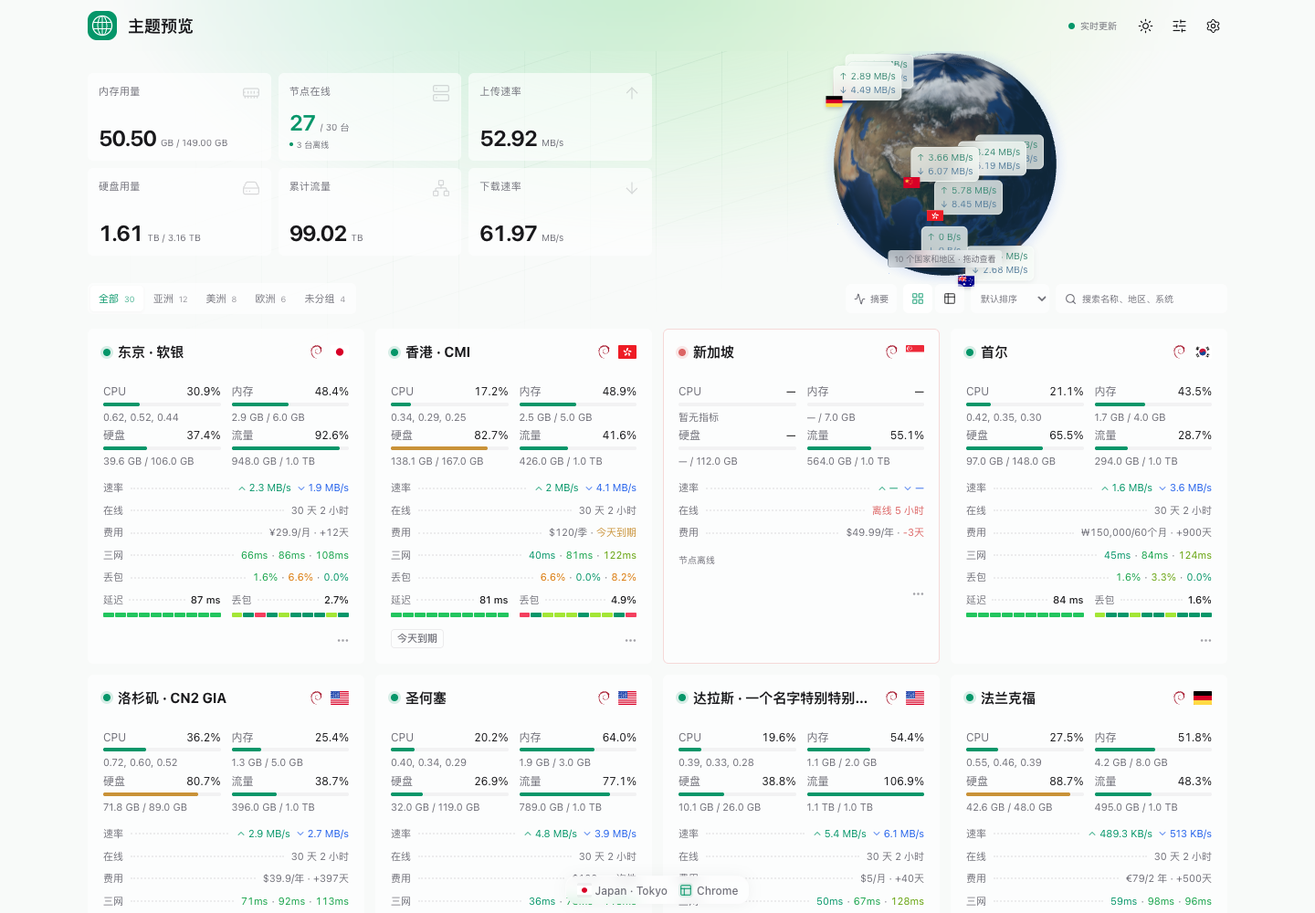
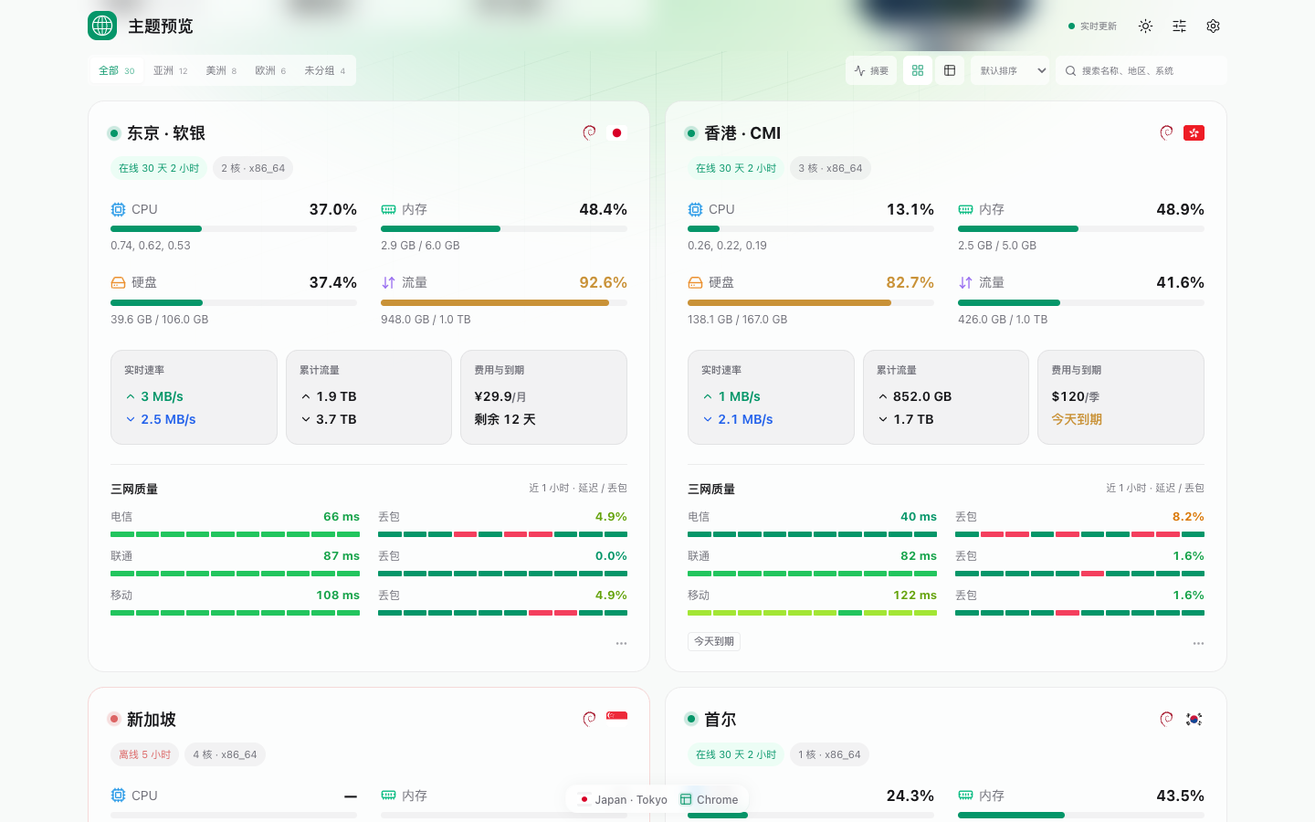
feat: prototype expanded node cards

diff --git a/src/styles.css b/src/styles.css
@@ -149,25 +149,48 @@ svg { flex-shrink: 0; }
 .search-field input::-webkit-search-cancel-button { display: none; }
 .search-clear { position: absolute; display: grid; place-items: center; top: 4px; right: 4px; width: 24px; height: 24px; color: var(--muted); background: transparent; }
 .search-clear svg { width: 12px; height: 12px; }
-.nodes-grid { display: grid; grid-template-columns: repeat(auto-fill, minmax(min(100%, var(--card-min, 292px)), 1fr)); gap: 12px; position: relative; }
-.node-card { min-width: 0; background: var(--surface); border: 1px solid transparent; border-radius: 6px; align-self: stretch; transition: background .2s, box-shadow .2s, transform .2s; }
+.nodes-grid { display: grid; grid-template-columns: repeat(2, minmax(0, 1fr)); gap: 16px; position: relative; }
+.nodes-grid.card-size-mini { grid-template-columns: repeat(auto-fill, minmax(min(100%, 370px), 1fr)); }
+.node-card { min-width: 0; background: var(--surface); border: 1px solid var(--line); border-radius: 18px; align-self: stretch; transition: background .2s, box-shadow .2s, transform .2s; }
 .node-card:hover { background: var(--surface-solid); box-shadow: var(--shadow); transform: translateY(-2px); }
 .node-card.node-offline { border-color: color-mix(in srgb, var(--danger) 24%, transparent); }
 .node-card.node-waiting { border-color: color-mix(in srgb, var(--warning) 18%, transparent); }
-.node-card-header { display: flex; align-items: center; gap: 8px; min-width: 0; padding: var(--card-padding-top, 14px) var(--card-padding, 16px) 26px; }
-.node-card-header h2 { margin: 0; font-size: var(--card-title-size, 15px); font-weight: 700; overflow: hidden; text-overflow: ellipsis; white-space: nowrap; flex: 1; min-width: 0; }
-.os-icon { width: 15px; height: 15px; flex-shrink: 0; }
-.country-flag { background: var(--subtle); width: 20px; height: 15px; border-radius: 1px; object-fit: cover; flex-shrink: 0; }
-.node-card-body { padding: 0 var(--card-padding, 16px) var(--card-padding-bottom, 16px); }
-.node-resources { display: grid; grid-template-columns: repeat(2, minmax(0, 1fr)); gap: var(--card-resource-gap, 6px) 12px; margin-bottom: 14px; }
+.node-card-header { display: flex; align-items: center; gap: 10px; min-width: 0; padding: var(--card-padding-top, 22px) var(--card-padding, 24px) 0; }
+.node-card-header h2 { margin: 0; font-size: var(--card-title-size, 18px); font-weight: 700; overflow: hidden; text-overflow: ellipsis; white-space: nowrap; flex: 1; min-width: 0; }
+.os-icon { width: 17px; height: 17px; flex-shrink: 0; }
+.country-flag { background: var(--subtle); width: 23px; height: 17px; border-radius: 3px; object-fit: cover; flex-shrink: 0; }
+.node-card-meta { display: flex; align-items: center; flex-wrap: wrap; gap: 6px; padding: 13px var(--card-padding, 24px) 0; min-height: 39px; }
+.node-meta-pill { display: block; max-width: 100%; padding: 5px 9px; border-radius: 99px; background: var(--subtle); color: var(--muted); font-size: var(--card-detail-size, 11px); overflow: hidden; text-overflow: ellipsis; white-space: nowrap; }
+.node-meta-pill:first-child:not(.danger, .warning) { color: var(--emerald); background: var(--emerald-soft); }
+.node-card-body { padding: 23px var(--card-padding, 24px) var(--card-padding-bottom, 22px); }
+.node-resources { display: grid; grid-template-columns: repeat(2, minmax(0, 1fr)); gap: var(--card-resource-gap, 22px) 26px; margin-bottom: 25px; }
 .resource-meter { min-width: 0; }
-.meter-label { display: flex; justify-content: space-between; align-items: center; font-size: var(--card-metric-size, 12px); gap: 6px; margin-bottom: 5px; line-height: 1.15; }
+.meter-label { display: flex; justify-content: space-between; align-items: center; font-size: var(--card-metric-size, 14px); gap: 6px; margin-bottom: 9px; line-height: 1.15; }
 .meter-label > span:first-child { color: var(--muted); }
+.meter-name { display: inline-flex; align-items: center; min-width: 0; gap: 6px; white-space: nowrap; }
+.meter-icon { width: 17px; height: 17px; stroke-width: 2; }
+.meter-icon-cpu { color: #2799e7; }
+.meter-icon-memory { color: #0fbd85; }
+.meter-icon-disk { color: #eb902f; }
+.meter-icon-traffic { color: #976cf0; }
+.meter-label .data-number { color: var(--foreground); font-size: var(--card-value-size, 16px); font-weight: 700; white-space: nowrap; }
 .data-number { font-variant-numeric: tabular-nums; }
-.meter-track { height: 4px; border-radius: 5px; background: var(--subtle); overflow: hidden; }
+.meter-track { height: 7px; border-radius: 8px; background: var(--subtle); overflow: hidden; }
 .meter-track > span { height: 100%; display: block; border-radius: inherit; transition: width .7s ease; }
-.meter-detail { font-size: var(--card-detail-size, 11px); color: var(--muted); margin-top: 4px; overflow: hidden; text-overflow: ellipsis; white-space: nowrap; line-height: 1.4; }
-.node-facts { display: flex; flex-direction: column; gap: 8px; margin-bottom: 8px; }
+.meter-detail { font-size: var(--card-detail-size, 12px); color: var(--muted); margin-top: 7px; overflow: hidden; text-overflow: ellipsis; white-space: nowrap; line-height: 1.4; }
+.node-highlights { display: grid; grid-template-columns: repeat(var(--highlight-count), minmax(0, 1fr)); gap: 9px; margin-bottom: 21px; }
+.highlight-tile { display: flex; flex-direction: column; min-width: 0; min-height: 104px; padding: 13px 14px; border: 1px solid var(--line); border-radius: 13px; background: var(--subtle); }
+.highlight-label { display: block; margin-bottom: 11px; color: var(--muted); font-size: var(--card-detail-size, 11px); font-weight: 600; white-space: nowrap; }
+.highlight-value { display: flex; align-items: center; gap: 4px; min-width: 0; color: var(--foreground); font-size: var(--card-fact-size, 14px); font-weight: 650; font-variant-numeric: tabular-nums; line-height: 1.4; overflow: hidden; text-overflow: ellipsis; white-space: nowrap; }
+.highlight-value + .highlight-value { margin-top: 5px; }
+.highlight-value svg { width: 14px; height: 14px; flex: none; }
+.highlight-value.up { color: var(--emerald); }
+.highlight-value.down { color: var(--blue); }
+.highlight-value.highlight-empty { color: var(--muted); }
+.highlight-value.expiring { color: var(--warning); }
+.highlight-value.expired { color: var(--danger); }
+.highlight-cost { display: block; }
+.highlight-cycle { color: var(--muted); font-size: .88em; white-space: nowrap; }
 .fact-row { display: flex; align-items: center; min-width: 0; font-size: var(--card-fact-size, 11px); color: var(--muted); line-height: 1.5; }
 .fact-row > span:first-child { flex-shrink: 0; }
 .fact-row strong { color: var(--foreground); font-weight: 500; white-space: nowrap; }
@@ -186,7 +209,7 @@ svg { flex-shrink: 0; }
 .card-cost { min-width: 0; font-variant-numeric: tabular-nums; }
 .expiring { color: var(--warning); }
 .expired { color: var(--danger); }
-.ping-panel { min-width: 0; font-size: var(--card-fact-size, 11px); }
+.ping-panel { min-width: 0; padding-top: 17px; border-top: 1px solid var(--line); font-size: var(--card-fact-size, 11px); }
 .ping-summary { margin-bottom: 8px; }
 .ping-summary-values { display: flex; flex-wrap: wrap; justify-content: flex-end; gap: 2px 4px; min-width: 0; max-width: 82%; font-variant-numeric: tabular-nums; }
 .ping-summary-values > span { white-space: nowrap; }
@@ -194,7 +217,7 @@ svg { flex-shrink: 0; }
 .ping-panels { display: grid; grid-template-columns: repeat(2, minmax(0, 1fr)); gap: 12px; }
 .ping-panels > div { min-width: 0; }
 .ping-panels .fact-row > i { margin: 0 6px; }
-.ping-history { display: flex; gap: 1px; height: 5px; margin-top: 6px; }
+.ping-history { display: flex; gap: 2px; height: 6px; margin-top: 8px; }
 .ping-history > span { flex: 1; min-width: 0; border-radius: 1px; transition: transform .15s; }
 .ping-history > span:hover { transform: scaleY(2); }
 .ping-tone-good { background: #059669; }
@@ -212,13 +235,20 @@ svg { flex-shrink: 0; }
 .dark .ping-text-fair { color: #4ade80; }
 .dark .ping-text-moderate { color: #a3e635; }
 .dark .ping-text-slow { color: #fbbf24; }
-.ping-heading { display: flex; justify-content: space-between; color: var(--muted); font-size: 10px; margin-bottom: 8px; }
+.ping-heading { display: flex; justify-content: space-between; gap: 8px; color: var(--muted); font-size: var(--card-detail-size, 11px); margin-bottom: 13px; }
+.ping-heading > span:first-child { color: var(--foreground); font-size: var(--card-fact-size, 13px); font-weight: 650; }
+.ping-compact-network { display: grid; grid-template-columns: repeat(2, minmax(0, 1fr)); gap: 20px; }
+.ping-compact-network + .ping-compact-network { margin-top: 12px; }
+.ping-compact-network > div { min-width: 0; }
+.ping-compact-heading { display: flex; align-items: baseline; justify-content: space-between; gap: 6px; color: var(--muted); font-size: var(--card-fact-size, 12px); }
+.ping-compact-heading > span { min-width: 0; overflow: hidden; text-overflow: ellipsis; white-space: nowrap; }
+.ping-compact-heading strong { flex: none; font-size: var(--card-fact-size, 13px); font-weight: 700; font-variant-numeric: tabular-nums; }
 .ping-detail-network + .ping-detail-network { margin-top: 12px; }
 .ping-detail-heading { display: flex; align-items: center; justify-content: space-between; gap: 8px; color: var(--muted); }
 .ping-detail-heading > span:first-child { min-width: 0; overflow: hidden; text-overflow: ellipsis; white-space: nowrap; }
 .ping-detail-heading > span:last-child { white-space: nowrap; color: var(--foreground); }
 .ping-empty { font-size: 10px; color: var(--muted); padding: 6px 0; }
-.node-card-footer { position: relative; min-height: 20px; margin-top: 13px; padding-right: 23px; }
+.node-card-footer { position: relative; min-height: 20px; margin-top: 18px; padding-right: 23px; }
 .remark-tags { display: flex; flex-wrap: wrap; gap: 4px; }
 .remark-tags > span { font-size: var(--card-detail-size, 11px); color: var(--muted); border: 1px solid var(--line); border-radius: 4px; padding: 2px 6px; max-width: 100%; overflow-wrap: anywhere; line-height: 1.3; font-weight: 500; }
 .node-remark { font-size: var(--card-detail-size, 11px); color: var(--muted); line-height: 1.5; margin: 0; white-space: pre-wrap; overflow-wrap: anywhere; }
@@ -227,6 +257,7 @@ svg { flex-shrink: 0; }
 .node-extra > summary svg { width: 15px; height: 15px; }
 .node-extra > summary:hover, .node-extra[open] > summary { opacity: 1; background: var(--subtle); }
 .node-extra-content { padding-top: 12px; }
+.node-hardware-name { margin: 0; color: var(--muted); font-size: var(--card-detail-size, 11px); line-height: 1.5; overflow-wrap: anywhere; }
 .node-tags { display: flex; flex-wrap: wrap; align-items: center; gap: 4px; margin-top: 7px; }
 .node-tags > span { font-size: 10px; padding: 2px 5px; border-radius: 3px; color: var(--muted); background: var(--subtle); }
 .visitor-safe-area { padding-bottom: calc(var(--visitor-height, 36px) + 24px + env(safe-area-inset-bottom, 0px)); transition: padding-bottom .2s; }
@@ -296,6 +327,10 @@ svg { flex-shrink: 0; }
   .toolbar-actions { margin-left: auto; }
   .summary-value strong { font-size: 22px; }
 }
+@media (max-width: 900px) {
+  .nodes-grid, .nodes-grid.card-size-mini { grid-template-columns: 1fr; }
+  .node-card { width: 100%; max-width: 720px; justify-self: center; }
+}
 @media (max-width: 767px) {
   .masthead-inner { height: 58px; padding: 0 14px; }
   .brand { gap: 9px; }
@@ -331,11 +366,21 @@ svg { flex-shrink: 0; }
   .search-field input { height: 44px; font-size: 11px; }
   .search-field > svg { top: 16px; }
   .search-clear { top: 10px; }
-  .nodes-grid { grid-template-columns: repeat(auto-fill, minmax(min(100%, var(--card-min, 285px)), 1fr)); gap: 10px; }
-  .node-card-header { padding: var(--card-padding-top, 14px) var(--card-padding, 16px) 24px; }
-  .node-card-body { padding: 0 var(--card-padding, 16px) var(--card-padding-bottom, 14px); }
-  .ping-heading { font-size: 10px; }
+  .nodes-grid { grid-template-columns: 1fr; gap: 12px; }
+  .node-card-header { padding: var(--card-padding-top, 20px) var(--card-padding, 18px) 0; }
+  .node-card-body { padding: 20px var(--card-padding, 18px) var(--card-padding-bottom, 18px); }
+  .node-resources { column-gap: 15px; row-gap: var(--card-resource-gap, 19px); }
+  .highlight-tile { padding: 11px 10px; }
+  .ping-compact-network { gap: 12px; }
   .site-footer { padding: 24px 14px; font-size: 9px; }
+}
+@media (max-width: 520px) {
+  .highlight-tile { padding: 10px 8px; }
+  .highlight-label { font-size: 10px; }
+  .highlight-value { font-size: 12px; }
+  .highlight-value svg { width: 12px; height: 12px; }
+  .highlight-cost { white-space: normal; overflow: visible; line-height: 1.25; }
+  .highlight-cycle-break { display: block; }
 }
 @media (max-width: 380px) {
   .summary-value strong { font-size: 18px; }
@@ -344,10 +389,18 @@ svg { flex-shrink: 0; }
   .toolbar-actions { flex-wrap: wrap; }
   .search-field { flex-basis: 100%; }
   .nodes-grid { grid-template-columns: 1fr; }
+  .node-card-header { padding-inline: 15px; }
+  .node-card-meta { padding-inline: 15px; }
+  .node-card-body { padding-inline: 15px; }
+  .node-highlights { grid-template-columns: repeat(2, minmax(0, 1fr)); }
+  .node-highlights > :last-child:nth-child(odd) { grid-column: 1 / -1; }
+  .meter-label { font-size: 12px; }
+  .meter-label .data-number { font-size: 13px; }
+  .meter-detail { font-size: 10px; }
 }
-.card-size-mini { --card-min: 240px; --card-padding: 12px; --card-padding-top: 11px; --card-padding-bottom: 11px; --card-title-size: 13px; --card-metric-size: 11px; --card-detail-size: 9px; --card-fact-size: 10px; --card-resource-gap: 6px; }
-.card-size-comfortable { --card-min: 336px; --card-padding: 20px; --card-padding-top: 18px; --card-padding-bottom: 18px; --card-title-size: 17px; --card-metric-size: 13px; --card-detail-size: 11px; --card-fact-size: 12px; --card-resource-gap: 8px; }
-.card-size-large { --card-min: 380px; --card-padding: 24px; --card-padding-top: 22px; --card-padding-bottom: 22px; --card-title-size: 18px; --card-metric-size: 14px; --card-detail-size: 12px; --card-fact-size: 13px; --card-resource-gap: 10px; }
+.card-size-mini { --card-padding: 17px; --card-padding-top: 16px; --card-padding-bottom: 16px; --card-title-size: 16px; --card-metric-size: 12px; --card-value-size: 14px; --card-detail-size: 10px; --card-fact-size: 12px; --card-resource-gap: 16px; }
+.card-size-comfortable { --card-padding: 26px; --card-padding-top: 24px; --card-padding-bottom: 24px; --card-title-size: 20px; --card-metric-size: 15px; --card-value-size: 17px; --card-detail-size: 12px; --card-fact-size: 15px; --card-resource-gap: 24px; }
+.card-size-large { --card-padding: 30px; --card-padding-top: 28px; --card-padding-bottom: 28px; --card-title-size: 22px; --card-metric-size: 16px; --card-value-size: 18px; --card-detail-size: 13px; --card-fact-size: 16px; --card-resource-gap: 27px; }
 .reduced-motion *, .reduced-motion *::before, .reduced-motion *::after { animation: none !important; transition: none !important; scroll-behavior: auto !important; }
 @media (prefers-reduced-motion: reduce) {
   *, *::before, *::after { animation: none !important; transition: none !important; scroll-behavior: auto !important; }

diff --git a/src/components/NodeCard.vue b/src/components/NodeCard.vue
@@ -4,7 +4,7 @@ import { ChevronDown, ChevronUp, Ellipsis } from '@lucide/vue'
 import type { MonitorNode, ThemeConfig } from '../types'
 import { flagUrl } from '../lib/assets'
 import { nodeState, regionName } from '../lib/data'
-import { cardBytes, cardExpiry, cardPrice, duration, expiryLabel, formatBytes, percentage, priceLabel, remarkParts } from '../lib/format'
+import { cardBytes, cardPrice, duration, expiryLabel, formatBytes, percentage, priceLabel, remarkParts } from '../lib/format'
 import OsIcon from './OsIcon.vue'
 import ResourceMeter from './ResourceMeter.vue'
 import PingPanel from './PingPanel.vue'
@@ -13,10 +13,20 @@ const mem = computed(() => percentage(props.node.metrics?.mem_used, props.node.m
 const disk = computed(() => percentage(props.node.metrics?.disk_used, props.node.disk_total))
 const traffic = computed(() => percentage(props.node.month_used, props.node.traffic_limit))
 const cost = computed(() => cardPrice(props.node.price, props.node.currency, props.node.billing_cycle))
+const costParts = computed(() => {
+  const slash = cost.value.indexOf('/')
+  return slash < 0 ? [cost.value, ''] : [cost.value.slice(0, slash), cost.value.slice(slash + 1)]
+})
+const longCost = computed(() => costParts.value[0].length >= 8 || costParts.value[1].length >= 4)
 const costTitle = computed(() => `${priceLabel(props.node.price, props.node.currency, props.node.billing_cycle)} (${props.node.currency})`)
 const hasExpiry = computed(() => props.config.show_expiry && props.node.expires_in !== null)
+const hasBilling = computed(() => props.showPrice || hasExpiry.value)
+const highlightCount = computed(() => Number(props.config.show_speed) + Number(props.config.show_total_traffic) + Number(hasBilling.value))
+const uptimeText = computed(() => props.node.metrics ? `在线 ${duration(props.node.metrics.uptime)}` : nodeState(props.node))
+const expiryText = computed(() => props.node.expires_in === null ? '' : props.node.expires_in < 0
+  ? `已过期 ${Math.abs(props.node.expires_in)} 天` : props.node.expires_in === 0 ? '今天到期' : `剩余 ${props.node.expires_in} 天`)
 const remark = computed(() => remarkParts(props.node.public_remark))
-const hasExtra = computed(() => props.config.show_total_traffic || (props.config.show_node_metadata && !!(props.node.cpu_cores || props.node.arch)))
+const hasExtra = computed(() => props.config.show_node_metadata && !!(props.node.cpu_name || props.node.virt))
 const expiryClass = computed(() => ({ expiring: props.node.expires_in !== null && props.node.expires_in <= props.config.expiry_warning_days, expired: props.node.expires_in !== null && props.node.expires_in < 0 }))
 </script>
 <template>
@@ -27,29 +37,43 @@ const expiryClass = computed(() => ({ expiring: props.node.expires_in !== null &
       <OsIcon v-if="config.show_node_metadata" :os="node.os" />
       <img v-if="config.show_node_metadata && flagUrl(node.country)" :src="flagUrl(node.country)" :alt="regionName(node.country)" :title="regionName(node.country)" class="country-flag" />
     </div>
+    <div v-if="config.show_uptime || (config.show_node_metadata && (node.cpu_cores || node.arch))" class="node-card-meta">
+      <span v-if="config.show_uptime" class="node-meta-pill" :class="{ danger: !node.online, warning: node.online && !node.metrics }">{{ uptimeText }}</span>
+      <span v-if="config.show_node_metadata && (node.cpu_cores || node.arch)" class="node-meta-pill" :title="node.cpu_name || node.arch">{{ node.cpu_cores ? `${node.cpu_cores} 核` : '' }}{{ node.cpu_cores && node.arch ? ' · ' : '' }}{{ node.arch }}</span>
+    </div>
     <div class="node-card-body">
       <div v-if="config.show_cpu || config.show_memory || config.show_disk || config.show_traffic" class="node-resources">
-        <ResourceMeter v-if="config.show_cpu" label="CPU" :value="node.metrics?.cpu ?? null" :detail="node.metrics ? node.metrics.load.map(n => n.toFixed(2)).join(', ') : '暂无指标'" />
-        <ResourceMeter v-if="config.show_memory" label="内存" :value="mem" :detail="`${cardBytes(node.metrics?.mem_used)} / ${cardBytes(node.mem_total)}`" :detail-title="`${formatBytes(node.metrics?.mem_used)} / ${formatBytes(node.mem_total)}`" />
-        <ResourceMeter v-if="config.show_disk" label="硬盘" :value="disk" :detail="`${cardBytes(node.metrics?.disk_used)} / ${cardBytes(node.disk_total)}`" :detail-title="`${formatBytes(node.metrics?.disk_used)} / ${formatBytes(node.disk_total)}`" />
-        <ResourceMeter v-if="config.show_traffic" label="流量" :value="traffic" :detail="`${cardBytes(node.month_used)} / ${node.traffic_limit ? cardBytes(node.traffic_limit) : '∞'}`" :detail-title="`${formatBytes(node.month_used)} / ${node.traffic_limit ? formatBytes(node.traffic_limit) : '∞'}`" color="var(--emerald)" />
+        <ResourceMeter v-if="config.show_cpu" icon="cpu" label="CPU" :value="node.metrics?.cpu ?? null" :detail="node.metrics ? node.metrics.load.map(n => n.toFixed(2)).join(', ') : '暂无指标'" />
+        <ResourceMeter v-if="config.show_memory" icon="memory" label="内存" :value="mem" :detail="`${cardBytes(node.metrics?.mem_used)} / ${cardBytes(node.mem_total)}`" :detail-title="`${formatBytes(node.metrics?.mem_used)} / ${formatBytes(node.mem_total)}`" />
+        <ResourceMeter v-if="config.show_disk" icon="disk" label="硬盘" :value="disk" :detail="`${cardBytes(node.metrics?.disk_used)} / ${cardBytes(node.disk_total)}`" :detail-title="`${formatBytes(node.metrics?.disk_used)} / ${formatBytes(node.disk_total)}`" />
+        <ResourceMeter v-if="config.show_traffic" icon="traffic" label="流量" :value="traffic" :detail="`${cardBytes(node.month_used)} / ${node.traffic_limit ? cardBytes(node.traffic_limit) : '∞'}`" :detail-title="`${formatBytes(node.month_used)} / ${node.traffic_limit ? formatBytes(node.traffic_limit) : '∞'}`" :warning-at="80" :danger-at="100" />
       </div>
-      <div v-if="config.show_speed || config.show_uptime || showPrice || hasExpiry" class="node-facts">
-        <div v-if="config.show_speed" class="fact-row"><span>速率</span><i /><div class="rates"><span class="up" :title="formatBytes(node.metrics?.net_tx, true)"><ChevronUp />{{ cardBytes(node.metrics?.net_tx, true) }}</span><span class="down" :title="formatBytes(node.metrics?.net_rx, true)"><ChevronDown />{{ cardBytes(node.metrics?.net_rx, true) }}</span></div></div>
-        <div v-if="config.show_uptime" class="fact-row"><span>在线</span><i /><span :class="{ danger: !node.online, warning: node.online && !node.metrics }">{{ node.metrics ? duration(node.metrics.uptime) : nodeState(node) }}</span></div>
-        <div v-if="showPrice || hasExpiry" class="fact-row"><span>{{ showPrice ? '费用' : '到期' }}</span><i /><span class="card-cost">
-          <span v-if="showPrice" :title="costTitle">{{ cost }}</span><span v-if="showPrice && hasExpiry" aria-hidden="true"> · </span><span v-if="hasExpiry" :class="expiryClass" :title="`${node.expires_at || ''} ${expiryLabel(node.expires_in)}`">{{ cardExpiry(node.expires_in) }}</span>
-        </span></div>
+      <div v-if="highlightCount" class="node-highlights" :style="{ '--highlight-count': highlightCount }">
+        <div v-if="config.show_speed" class="highlight-tile">
+          <span class="highlight-label">实时速率</span>
+          <span class="highlight-value up" :class="{ 'highlight-empty': !node.metrics }" :title="formatBytes(node.metrics?.net_tx, true)"><ChevronUp />{{ cardBytes(node.metrics?.net_tx, true) }}</span>
+          <span class="highlight-value down" :class="{ 'highlight-empty': !node.metrics }" :title="formatBytes(node.metrics?.net_rx, true)"><ChevronDown />{{ cardBytes(node.metrics?.net_rx, true) }}</span>
+        </div>
+        <div v-if="config.show_total_traffic" class="highlight-tile">
+          <span class="highlight-label">累计流量</span>
+          <span class="highlight-value" :title="`累计上传 ${formatBytes(node.total_tx)}`"><ChevronUp />{{ cardBytes(node.total_tx) }}</span>
+          <span class="highlight-value" :title="`累计下载 ${formatBytes(node.total_rx)}`"><ChevronDown />{{ cardBytes(node.total_rx) }}</span>
+        </div>
+        <div v-if="hasBilling" class="highlight-tile">
+          <span class="highlight-label">{{ showPrice && hasExpiry ? '费用与到期' : showPrice ? '费用' : '到期' }}</span>
+          <span v-if="showPrice" class="highlight-value highlight-cost" :title="costTitle">{{ costParts[0] }}<span v-if="costParts[1]" class="highlight-cycle" :class="{ 'highlight-cycle-break': longCost }">/{{ costParts[1] }}</span></span>
+          <span v-if="hasExpiry" class="highlight-value highlight-expiry" :class="expiryClass" :title="`${node.expires_at || ''} ${expiryLabel(node.expires_in)}`">{{ expiryText }}</span>
+        </div>
       </div>
       <PingPanel v-if="showPing" :node="node" :details="pingDetails" :config="config" />
       <div v-if="(config.show_remark && node.public_remark) || hasExtra" class="node-card-footer">
         <div v-if="config.show_remark && remark.tags.length" class="remark-tags"><span v-for="tag in remark.tags" :key="tag" :title="tag">{{ tag }}</span></div>
         <p v-if="config.show_remark && remark.text" class="node-remark" :title="remark.text">{{ remark.text }}</p>
         <details v-if="hasExtra" class="node-extra">
-          <summary :aria-label="`${node.name} 附加信息`" title="累计流量与硬件信息"><Ellipsis /></summary>
+          <summary :aria-label="`${node.name} 硬件信息`" title="硬件信息"><Ellipsis /></summary>
           <div class="node-extra-content">
-            <div v-if="config.show_total_traffic" class="fact-row" :title="`上传 ${formatBytes(node.total_tx)} / 下载 ${formatBytes(node.total_rx)}`"><span>累计</span><i /><span>{{ formatBytes(node.total_rx + node.total_tx) }}</span></div>
-            <div v-if="config.show_node_metadata" class="node-tags"><span v-if="node.cpu_cores" :title="node.cpu_name">{{ node.cpu_cores }} 核</span><span v-if="node.arch">{{ node.arch }}</span></div>
+            <p v-if="node.cpu_name" class="node-hardware-name">{{ node.cpu_name }}</p>
+            <div v-if="node.virt" class="node-tags"><span>{{ node.virt }}</span></div>
           </div>
         </details>
       </div>

diff --git a/src/components/PingPanel.vue b/src/components/PingPanel.vue
@@ -2,15 +2,13 @@
 import { computed, ref } from 'vue'
 import type { MonitorNode, ThemeConfig } from '../types'
 import { selectPingNetworks, useNodePing } from '../lib/ping'
-import { historyBuckets, latencyLabel, lossLabel, networkLatency, pingTone, windowSummary } from '../lib/ping-display'
+import { historyBuckets, latencyLabel, lossLabel, networkLatency, pingTone } from '../lib/ping-display'
 import PingHistoryBars from './PingHistoryBars.vue'
 const props = defineProps<{ node: MonitorNode; details: boolean; config: ThemeConfig }>()
 const element = ref<HTMLElement | null>(null)
 const snapshot = useNodePing(element, () => props.node.id, () => props.node.online && props.node.metrics !== null, () => props.config.ping_refresh_interval)
 const networks = computed(() => selectPingNetworks(snapshot.value?.networks ?? [], props.config.ping_tasks, props.config.ping_max_lines))
-const summary = computed(() => windowSummary(networks.value))
-const buckets = computed(() => historyBuckets(networks.value.flatMap(network => network.rows)))
-const hasRows = computed(() => networks.value.some(network => network.rows.length))
+const lines = computed(() => networks.value.map(network => ({ network, buckets: historyBuckets(network.rows) })))
 const message = computed(() => !props.node.online ? '节点离线' : !props.node.metrics ? '等待指标上报'
   : !snapshot.value || snapshot.value.state === 'loading' ? '读取延迟…'
   : snapshot.value.state === 'error' ? '延迟暂时不可用' : !networks.value.length ? '暂无延迟监控' : '')
@@ -19,20 +17,15 @@ const message = computed(() => !props.node.online ? '节点离线' : !props.node
   <div ref="element" class="ping-panel">
     <div v-if="message" class="ping-empty" :title="snapshot?.error">{{ message }}</div>
     <template v-else-if="!details">
-      <div class="fact-row ping-summary"><span>{{ networks.length === 3 ? '三网' : '线路' }}</span><i /><div class="ping-summary-values">
-        <span v-for="(network, index) in networks" :key="network.id" :class="`ping-text-${pingTone(networkLatency(network), 'latency')}`" :title="`${network.name} · 近 1 小时返回采样的平均延迟`">{{ latencyLabel(networkLatency(network), !!network.rows.length, true) }}<b v-if="index < networks.length - 1">·</b></span>
-      </div></div>
-      <div class="fact-row ping-summary"><span>丢包</span><i /><div class="ping-summary-values">
-        <span v-for="(network, index) in networks" :key="network.id" :class="`ping-text-${pingTone(network.loss, 'loss')}`" :title="`${network.name} · 近 1 小时整段窗口丢包率`">{{ lossLabel(network.loss) }}<b v-if="index < networks.length - 1">·</b></span>
-      </div></div>
-      <div class="ping-panels">
-        <div title="近 1 小时各有效线路的采样平均延迟，再取线路平均">
-          <div class="fact-row"><span>延迟</span><i /><strong>{{ latencyLabel(summary.latency, hasRows) }}</strong></div>
-          <PingHistoryBars :buckets="buckets" metric="latency" label="近期延迟分段" />
+      <div class="ping-heading"><span>{{ lines.length === 3 ? '三网质量' : '线路质量' }}</span><span>近 1 小时 · 延迟 / 丢包</span></div>
+      <div v-for="{ network, buckets: lineBuckets } in lines" :key="network.id" class="ping-compact-network">
+        <div>
+          <div class="ping-compact-heading"><span :title="network.name">{{ network.name }}</span><strong :class="`ping-text-${pingTone(networkLatency(network), 'latency')}`">{{ latencyLabel(networkLatency(network), !!network.rows.length) }}</strong></div>
+          <PingHistoryBars :buckets="lineBuckets" metric="latency" :label="`${network.name} 延迟分段`" />
         </div>
-        <div title="所选线路整段窗口丢包率的平均值；包含未知线路时显示 —">
-          <div class="fact-row"><span>丢包</span><i /><strong>{{ lossLabel(summary.loss) }}</strong></div>
-          <PingHistoryBars :buckets="buckets" metric="loss" label="近期丢包分段" />
+        <div>
+          <div class="ping-compact-heading"><span>丢包</span><strong :class="`ping-text-${pingTone(network.loss, 'loss')}`">{{ lossLabel(network.loss) }}</strong></div>
+          <PingHistoryBars :buckets="lineBuckets" metric="loss" :label="`${network.name} 丢包分段`" />
         </div>
       </div>
     </template>

diff --git a/src/components/ResourceMeter.vue b/src/components/ResourceMeter.vue
@@ -1,11 +1,15 @@
 <script setup lang="ts">
 import { computed } from 'vue'
-const props = defineProps<{ label: string; value: number | null; detail?: string; detailTitle?: string; color?: string }>()
-const color = computed(() => props.color || (props.value !== null && props.value >= 90 ? 'var(--danger)' : props.value !== null && props.value >= 75 ? 'var(--warning)' : 'var(--emerald)'))
+import { ArrowDownUp, Cpu, HardDrive, MemoryStick } from '@lucide/vue'
+const props = defineProps<{ label: string; value: number | null; detail?: string; detailTitle?: string; icon?: 'cpu' | 'memory' | 'disk' | 'traffic'; warningAt?: number; dangerAt?: number }>()
+const icons = { cpu: Cpu, memory: MemoryStick, disk: HardDrive, traffic: ArrowDownUp }
+const alertColor = computed(() => props.value !== null && props.value >= (props.dangerAt ?? 90) ? 'var(--danger)'
+  : props.value !== null && props.value >= (props.warningAt ?? 75) ? 'var(--warning)' : '')
+const color = computed(() => alertColor.value || 'var(--emerald)')
 </script>
 <template>
   <div class="resource-meter">
-    <div class="meter-label"><span>{{ label }}</span><span class="data-number">{{ value === null ? '—' : `${value.toFixed(1)}%` }}</span></div>
+    <div class="meter-label"><span class="meter-name"><component :is="icons[icon]" v-if="icon" class="meter-icon" :class="`meter-icon-${icon}`" />{{ label }}</span><span class="data-number" :style="{ color: alertColor || undefined }">{{ value === null ? '—' : `${value.toFixed(1)}%` }}</span></div>
     <div class="meter-track" role="meter" :aria-label="label" :aria-valuenow="value === null ? undefined : Math.min(100, value)" aria-valuemin="0" aria-valuemax="100" :aria-valuetext="value === null ? '暂无指标' : `${value.toFixed(1)}%`"><span :style="{ width: `${Math.min(100, Math.max(0, value ?? 0))}%`, background: color }" /></div>
     <div v-if="detail" class="meter-detail" :title="detailTitle || detail">{{ detail }}</div>
   </div>
